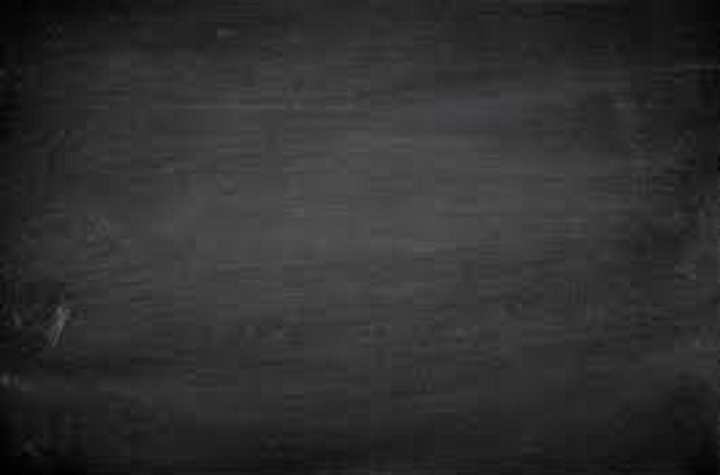
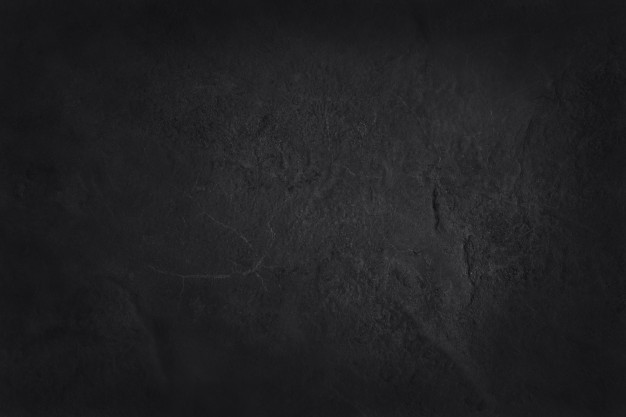
Selecting options: R

diff --git a/index.html b/index.html
@@ -1,56 +1,53 @@
- <html>
+<html>
     <head>
         <title>Tic Tac Toe</title>
         <meta name="viewport" content="width=device-width, initial-scale=1">
         <link rel="stylesheet" href="node_modules/bootstrap/dist/css/bootstrap.min.css">
         <link rel="stylesheet" href="css/styles.css">
+        <link rel="stylesheet" href="css/options.css">
         <link href='https://fonts.googleapis.com/css?family=Denk One' rel='stylesheet'>
-        <script src="js/index.js"></script>
     </head>
     <body>
         <div class="container">
-            <div class="row row-content">
+            <div class="row">
                 <div class="col-5 game-settings">
-                    <div class="row row-content align-self-center">
-                        <div class="col-12 offset-0.5">
+                    <div class="row align-self-center">
+                        <div class="col-12 offset-2">
                             <img class="human" src="img/human.png" alt="" height="200" width="100"> 
                             <span>vs</span>
                             <img class="robot" src="img/robot senpai.png" alt="" height="200" width="100">
                         </div>    
                     </div>
-                    <div class="row row-content align-self-center">
-                        <div class="col-12 offset-1">
-                            <label class="dash">Choose a Level</label>
-                            <div class="row field level-options">
-                                <ul>
-                                    <li data-value="1">1</li>
-                                    <li data-value="2">2</li>
-                                    <li data-value="3">3</li>
-                                    <li data-value="4">4</li>
-                                    <li data-value="0" class="active">Unlimited</li>
-                                </ul>
+                    <div class="row options align-self-center" id="depth">
+                        <div class="col-12">
+                            <h5>Starting Player</h5>
+                        </div>
+                        <div class="col-12">
+                            <div class="trial selected" id="human">Human</div>
+                            <div class="trial" id="robot">Robot Senpai</div>
+                        </div> 
+                        <div class="col-12">                           
+                            <h5>Choose a Level</h5>
+                        </div>
+                        <div class="col-12">
+                            <div class="trial" id="1">1</div>
+                            <div class="trial" id="2">2</div>
+                            <div class="trial" id="3">3</div>
+                            <div class="trial" id="4">4</div>
+                            <div class="trial selected" id="5">Unlimited</div>
+                        </div> 
+                        <div class="col-12">
+                            <h5>Let's start the game!!!</h5>
+                        </div>                       
+                        <div class="col-12">
+                            <div class="newgame">                                
+                                New Game
                             </div>
-                        </div>
-                    </div><br>
-                    <div class="row row-content align-items-center">
-                        <div class="col-12 offset-1">
-                            <label class="dash">Starting Player</label>
-                            <div class="row field player_choice" id="depth">
-                                <ul>
-                                    <li data-value="0" class="active">Human</li>
-                                    <li data-value="1">Robot Senpai</li>
-                                </ul>
-                            </div>
-                        </div>
-                    </div><br>
-                    <div class="row row-content align-self-center">
-                        <div class="col-12 offset-2">
-                            <button id="newgame">New Game</button>
-                        </div>
+                        </div>                           
                     </div>
                 </div>
                 <div class="col-7">
-                    <div class="row row-content game-board">
+                    <div class="row game-board">
                         <div class="col-12 align-self-center">
                             <canvas id="cvs" width="450" height="450"></canvas>
                         </div>
@@ -62,5 +59,6 @@
         <script src="node_modules/jquery/dist/jquery.slim.min.js"></script>
         <script src="node_modules/bootstrap/dist/js/bootstrap.min.js"></script>
         <script src="js/canvas.js"></script>
+        <script src="js/index.js"></script>
     </body>
 </html>

diff --git a/css/options.css b/css/options.css
@@ -1,0 +1,33 @@
+.options div.trial {
+    align-items: center;
+    padding: 10px; 
+    cursor: pointer;
+    border: 2px solid purple;
+    display: inline-flex;
+    border-radius: 10px;
+ }
+
+ .options div.newgame {
+    align-items: center;
+    background-color: royalblue;
+    border-radius: 5px;
+    border: none;
+    padding: 8px;
+    color: white;
+    cursor: pointer;
+ }
+
+ .options h5 {
+     margin: 20px 50px 15px 0px;
+ }
+
+ .options {
+     text-align: center;
+     padding-top: 50px;
+     padding-left: 50px;
+     padding-right: 50px;
+ }
+ 
+ .selected {
+     background: palevioletred;
+ }

diff --git a/css/styles.css b/css/styles.css
@@ -1,11 +1,11 @@
 .game-board {
-    background: #262626;
+    background: url('../img/board-background.jpg');
 }
 
 body {
-    padding: 50px 0px 50px 0px;
+    padding: 35px 0px 50px 0px;
     z-index: 0;
-    background: #d9d9d9;
+    background-image: url('../img/bodybg.jpg');
 }
 
 .game-settings {
